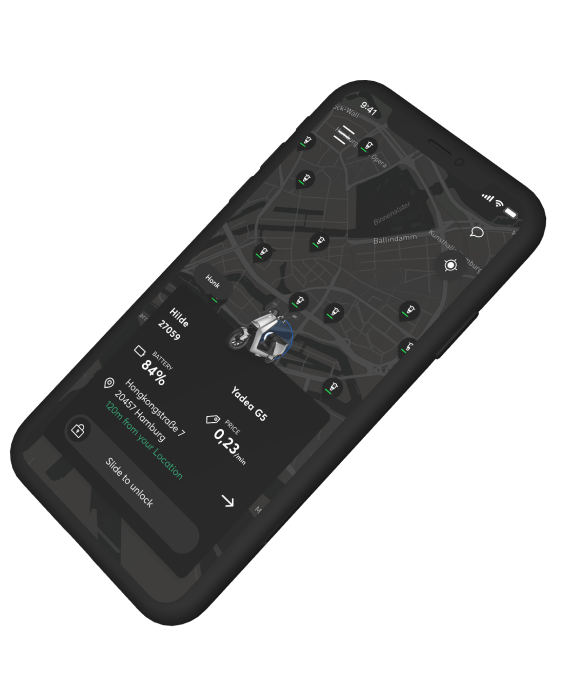
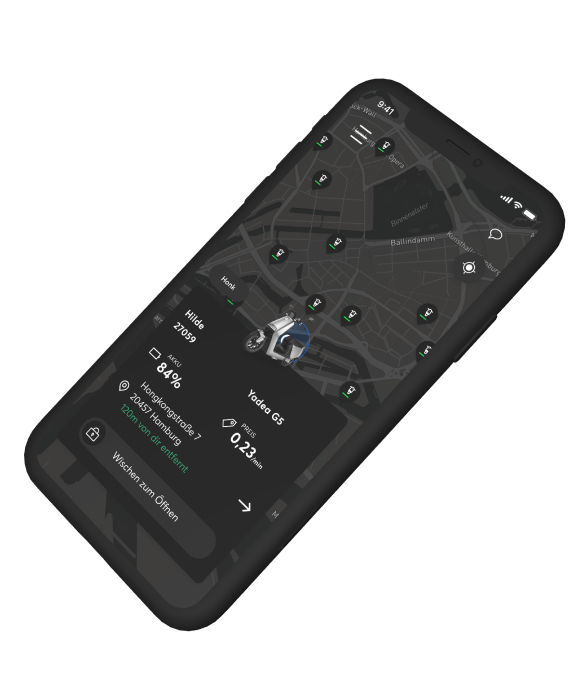
bulk copy and photo update

diff --git a/_includes/static/de/block-volta-main.html b/_includes/static/de/block-volta-main.html
@@ -38,7 +38,7 @@
           <div class="table-wrapper container">
             <div class="row py-4 border-top border-white" data-aos="soft-up" data-aos-easing="apple-easing">
               <div class="col-md-4 col-12 pl-md-0 font-weight-bold">
-                Digitale Full-Stack-Lösung
+                Digitale <br id="digital-usp-line-breaker">Full-Stack-Lösung
               </div>
               <div class="col-md-8 col-12">
                 Alle Tools, Fachkenntnisse und Unterstützung, die Sie benötigen, um Ihre eigene gebrandete Flotte anzutreiben.
@@ -57,7 +57,7 @@
                 Verbesserte Kundenbindung
               </div>
               <div class="col-md-8 col-12">
-                Zeigen Sie Ihren Kunden, dass Ihnen Nachhaltigkeit wichtig ist, indem Sie neue Mobilität fördern und ihre Gemeinschaft vernetzen.
+                Zeigen Sie Ihren Kunden, dass Ihnen Nachhaltigkeit wichtig ist, indem Sie ihre Gemeinschaft vernetzen und neue Mobilität fördern.
               </div>
             </div>
         </div>
@@ -76,9 +76,9 @@
         </h2>
       </div>
       <div class="col-md-6 offset-md-1 order-md-2 col-lg-5">
-        <p class="mb-5" data-aos="soft-up" data-aos-easing="apple-easing" data-aos-anchor="#marketing-header" data-aos-delay="100">Erhöhen Sie Ihre Sichtbarkeit und sprechen Sie jüngere Generationen an, indem Sie eine Shared-Mobility-Flotte an flexiblen Standorten in Ihrer Stadt anbieten. Und das alles für 4 % dessen, was es kosten würde, mit Plakaten zu werben.*</p>
+        <p class="mb-5" data-aos="soft-up" data-aos-easing="apple-easing" data-aos-anchor="#marketing-header" data-aos-delay="100">Erhöhen Sie Ihre Sichtbarkeit und sprechen Sie jüngere Generationen an, indem Sie eine Shared Mobility Flotte an flexiblen Standorten in Ihrer Stadt anbieten. Und das alles für 4 % dessen, was es kosten würde, mit Plakaten zu werben.*</p>
         <h3 data-aos="soft-up" data-aos-easing="apple-easing" data-aos-anchor="#marketing-header" data-aos-delay="150" class="headline-small mt-3">Was kosten Ihre Kampagnen?</h3>
-        <p data-aos="soft-up" data-aos-easing="apple-easing" data-aos-anchor="#marketing-header" data-aos-delay="200">Ziehen Sie den Schieberegler, um zu sehen, was eine Shared-Mobility-Flotte im Vergleich zu traditionellen Kampagnen kostet. Die Berechnungen basieren auf den geschätzten täglichen Kosten eines E-Rollers und einer Plakatfläche.</p>
+        <p data-aos="soft-up" data-aos-easing="apple-easing" data-aos-anchor="#marketing-header" data-aos-delay="200">Ziehen Sie den Schieberegler, um zu sehen, was eine Shared Mobility Flotte im Vergleich zu traditionellen Kampagnen kostet. Die Berechnungen basieren auf den geschätzten täglichen Kosten eines E-Rollers und einer Plakatfläche.</p>
       </div>
     </div>
     <div class="row pt-0 pb-5 py-md-5" data-aos="soft-up" data-aos-easing="apple-easing">
@@ -104,7 +104,7 @@
         <h2 class="headline-large mb-2 sustainability-header" data-aos="soft-up" data-aos-easing="apple-easing">Bekämpfen Sie den Klimawandel</h2>
         <p class="mb-5" data-aos="soft-up" data-aos-easing="apple-easing" data-aos-anchor=".sustainability-header">Zeigen Sie Ihren Kunden, dass Ihr Unternehmen umweltfreundliche Initiativen ernst nimmt, indem Sie in nachhaltige Mikromobilitätsdienste investieren. Sie können Ihr Markenimage verbessern und gleichzeitig Ihre Community mobiler und vernetzter machen.</p>
         <hr class="mb-5">
-        <h3 class="mb-5 headline-small">Bauen Sie eine Flotte auf, die Ihre Ziele erfüllt</h3>
+        <h3 class="mb-5 headline-small">Bauen Sie eine Flotte auf, die Ihre Ziele erfüllt:</h3>
         <div class="row pb-md-5 volta-sustainability-buttons">
           <h5 class="mb-3 col-12 w-100 instruction-title">Fahrzeugtyp auswählen</h5>
               <div class="col-xl-6 col-lg-12 col-sm-6 col-12">
@@ -124,7 +124,7 @@
                       </defs>
                       </svg>                      
                   </div>
-                  E-Moped
+                  E-Roller
                 </label>
               </div>
               <div class="col-xl-6 col-lg-12 col-sm-6 col-12">
@@ -190,7 +190,7 @@
     <div class="row align-items-center pt-5 mt-5">
       <div class="col-md-6 col-lg-5">
         <h2 class="headline-large" data-aos="soft-up" data-aos-easing="apple-easing">Sind Sie bereit? Dann legen Sie los mit Wunder Fleet</h2>
-        <p class="mb-4" data-aos="soft-up" data-aos-easing="apple-easing" data-aos-delay="100">Wunder Fleet ist eine flexible und anpassbare All-in-One-Plattform, mit der Sie Ihre eigene Flotte auf den Weg bringen können. Ausgestattet mit einer mobilen App, einem Backend-Management-System und sharing-bereiten Fahrzeugen, kann Wunder Fleet Sie in kürzester Zeit auf die Straße bringen.</p>
+        <p class="mb-4" data-aos="soft-up" data-aos-easing="apple-easing" data-aos-delay="100">Wunder Fleet ist eine flexible und anpassbare All-in-One-Plattform, mit der Sie Ihre eigene Flotte auf den Weg bringen können. Ausgestattet mit einer mobilen App, einem Backend-Management-System und Sharing-fähigen Fahrzeugen, kann Wunder Fleet Sie in kürzester Zeit auf die Straße bringen.</p>
         <a href="#contact" class="btn btn-dark" data-aos="soft-up" data-aos-easing="apple-easing" data-aos-delay="150">Kontaktieren Sie uns</a>
       </div>
       <div class="col-md-6 col-lg-6 offset-lg-1 mt-5 mt-md-06." data-aos="soft-up" data-aos-easing="apple-easing">
@@ -220,7 +220,7 @@
         <p>Treffen Sie neue Kunden dort, wo sie sind, mit einem ansprechenden, messbaren und 100% DSGVO-konformen digitalen Erlebnis.</p>
       </div>
       <div class="col-md-4 usp mb-5 my-md-0" data-aos="soft-up" data-aos-easing="apple-easing" data-aos-delay="200">
-        <img class="w-100" data-src="uploads/global/volta/usps/USP3.jpg" data-srcset="uploads/global/volta/usps/USP3@2x.jpg 2x" alt="">
+        <img class="w-100" data-src="uploads/global/volta/usps/USP3.png" data-srcset="uploads/global/volta/usps/USP3@2x.png 2x" alt="">
         <h4 class="mt-4 headline-small">Branchenführende Technologie</h4>
         <p>Mit den erstklassigen technischen Fähigkeiten von Wunder Mobility sind Sie der Konkurrenz meilenweit voraus. Genießen Sie eine anpassbare Benutzer-App und Verwaltungsplattform für mühelosen Betrieb.</p>
       </div>
@@ -282,7 +282,7 @@
     <div class="container py-5">
       <div class="row py-5 text-center text-lg-left">
         <div class="col-lg-5 mb-4">
-          <h2 class="headline-medium" data-aos="soft-up" data-aos-easing="apple-easing">Cerweitern Sie Ihr Mobilitätsökosystem</h2>
+          <h2 class="headline-medium" data-aos="soft-up" data-aos-easing="apple-easing">Erweitern Sie Ihr Mobilitätsökosystem</h2>
         </div>
         <div class="col-lg-3 mb-4">
           <p class="mb-3" data-aos="soft-up" data-aos-easing="apple-easing" data-aos-delay="100" >

diff --git a/_sass/pages/_volta.scss b/_sass/pages/_volta.scss
@@ -109,6 +109,12 @@ body.volta {
     }
   }
   
+  br#digital-usp-line-breaker {
+    //if you're here i am so sorry
+    @include rwd (tablet-down) {
+      display:none
+    }
+  }
   
   .instruction-title {
     opacity: 60%;
